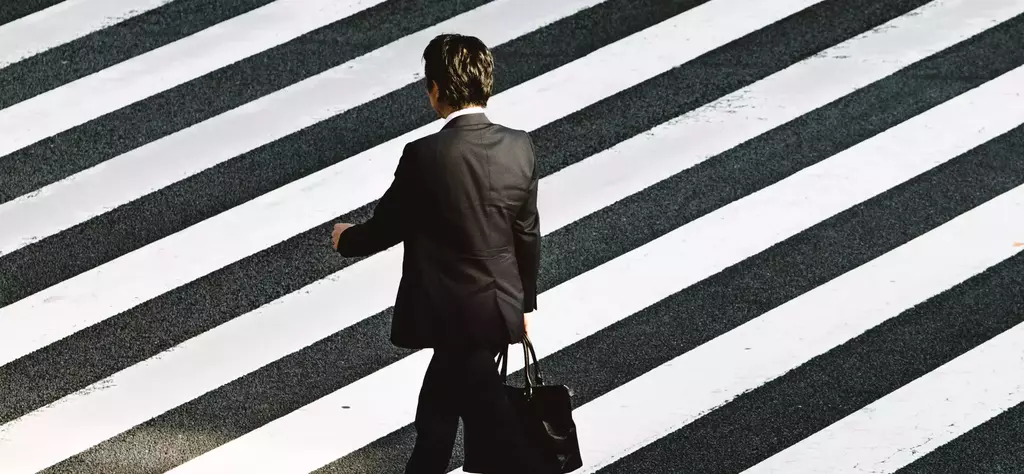
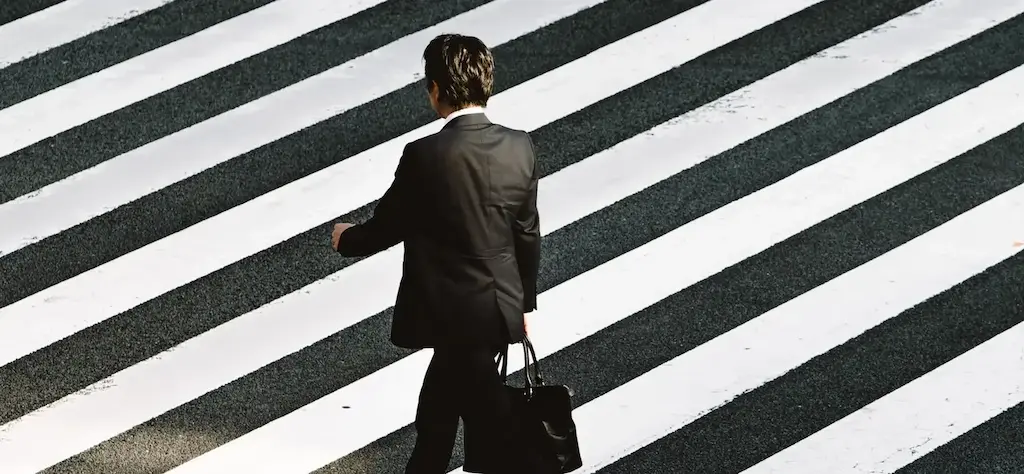
fix bug

diff --git a/index.html b/index.html
@@ -114,8 +114,8 @@
 			<div class="carousel-inner">
 				<div class="carousel-item active">
 					<img src="./assets/images/slider/ryoji-iwata.webp" class="d-block w-100" alt="Homme en costard traversant un large passage piéton." title="Homme classe qui marche." 
-					srcset="./assets/images/slider/ryoji-iwata-1440.webp 1440w, ./assets/images/slider/ryoji-iwata-1024.webp 1024w, ./assets/images/slider/ryoji-iwata-mobile.webp 768w, ./assets/images/slider/ryoji-iwata-400.webp 412w, ./assets/images/slider/ryoji-iwata-320.webp 320w" 
-					sizes="" width="1920" height="888" style="max-width: 100%; height: auto;" > 
+					srcset="./assets/images/slider/ryoji-iwata-1440.webp 1440w, ./assets/images/slider/ryoji-iwata-1024.webp 1024w, ./assets/images/slider/ryoji-iwata-mobile.webp 768w, ./assets/images/slider/ryoji-iwata-425.webp 425w, ./assets/images/slider/ryoji-iwata-320.webp 320w" 
+					sizes="100vw" width="1920" height="888" > 
 				</div>
 				<div class="carousel-item">
 					<img src="./assets/images/slider/nicholas-green.webp" class="d-block w-100" alt="Groupe de gens en festival." title="Gens en festival." 
